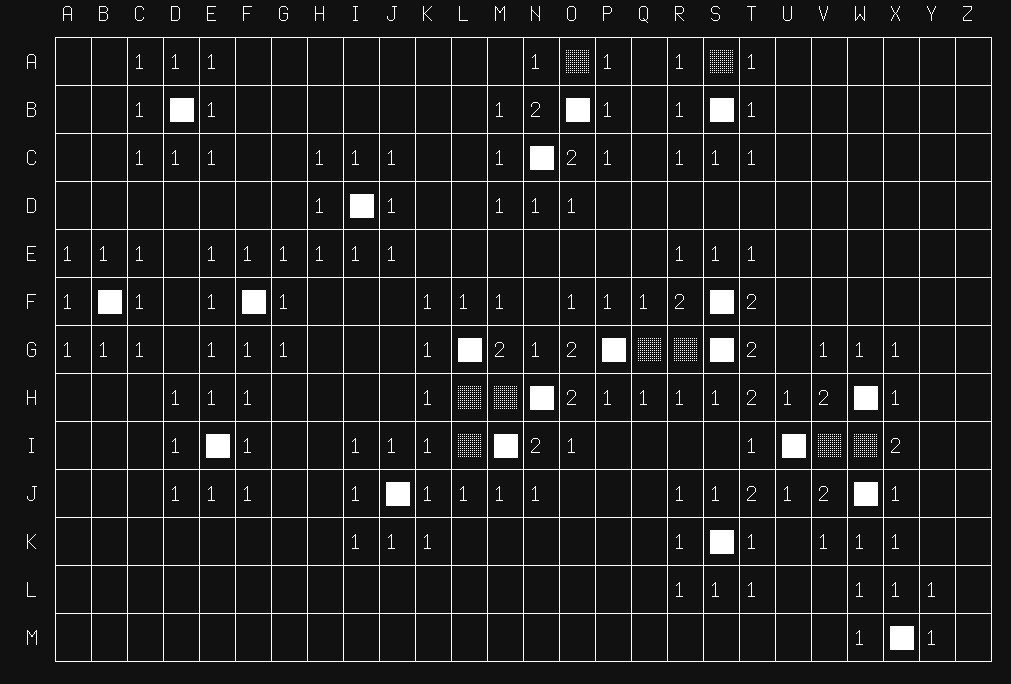
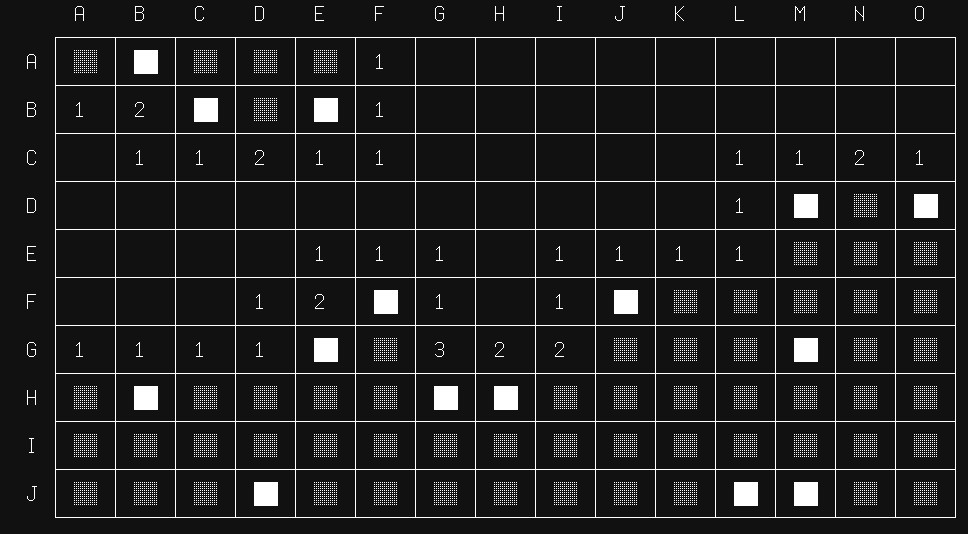
Updated cell rendering such that each cell is a square, also updated screenshot to reflect visual updates

Changed region(s): [[0.031, 0.0, 0.9917, 0.9888]]

diff --git a/minesweeper.py b/minesweeper.py
@@ -53,14 +53,14 @@ def print_game(game_state, column_characters, row_characters):
     width = len(game_state[0])
     height = len(game_state)
 
-    print("     ", end="")
+    print("      ", end="")
     for i in range(width):
-        print(column_characters[i], end="  ")
+        print(column_characters[i], end="    ")
     print()
 
     print("    ┌", end="")
     for x in range(width):
-        print(horizontal * 2, end="")
+        print(horizontal * 4, end="")
         if x < width - 1:
             print("┬", end="")
         else:
@@ -74,18 +74,18 @@ def print_game(game_state, column_characters, row_characters):
         for x in range(width):
             match game_state[y][x]:
                 case CellState.NOT_TOUCHED:
-                    print("│░░", end="")
+                    print("│ ░░ ", end="")
                 case CellState.TOUCHED:
-                    print("│  ", end="")
+                    print("│    ", end="")
                 case CellState.MINE:
-                    print("│░░", end="")
+                    print("│ ░░ ", end="")
                 case CellState.EXPLODED:
-                    print("│██", end="")
+                    print("│ ██ ", end="")
                 case _:
                     if len(str(game_state[y][x])) == 1:
-                        print("│%d " % game_state[y][x], end="")
+                        print("│ %d  " % game_state[y][x], end="")
                     else:
-                        print("│%d" % game_state[y][x], end="")
+                        print("│ %d " % game_state[y][x], end="")
             if x == width - 1:
                 print("│", end="")
 
@@ -93,7 +93,7 @@ def print_game(game_state, column_characters, row_characters):
         if y < height - 1:
             print("    ├", end="")
             for x in range(width):
-                print(horizontal * 2, end="")
+                print(horizontal * 4, end="")
                 if x < width - 1:
                     print("┼", end="")
                 else:
@@ -101,7 +101,7 @@ def print_game(game_state, column_characters, row_characters):
         else:
             print("    └", end="")
             for x in range(width):
-                print(horizontal * 2, end="")
+                print(horizontal * 4, end="")
                 if x < width - 1:
                     print("┴", end="")
                 else:
@@ -212,9 +212,9 @@ def check_for_win(game_state, mine_locations):
     return True
 
 def main():
-    width = 26
-    height = 13
-    mines = 20
+    width = 15
+    height = 10
+    mines = 15
 
     if width > 26:
         width = 26
